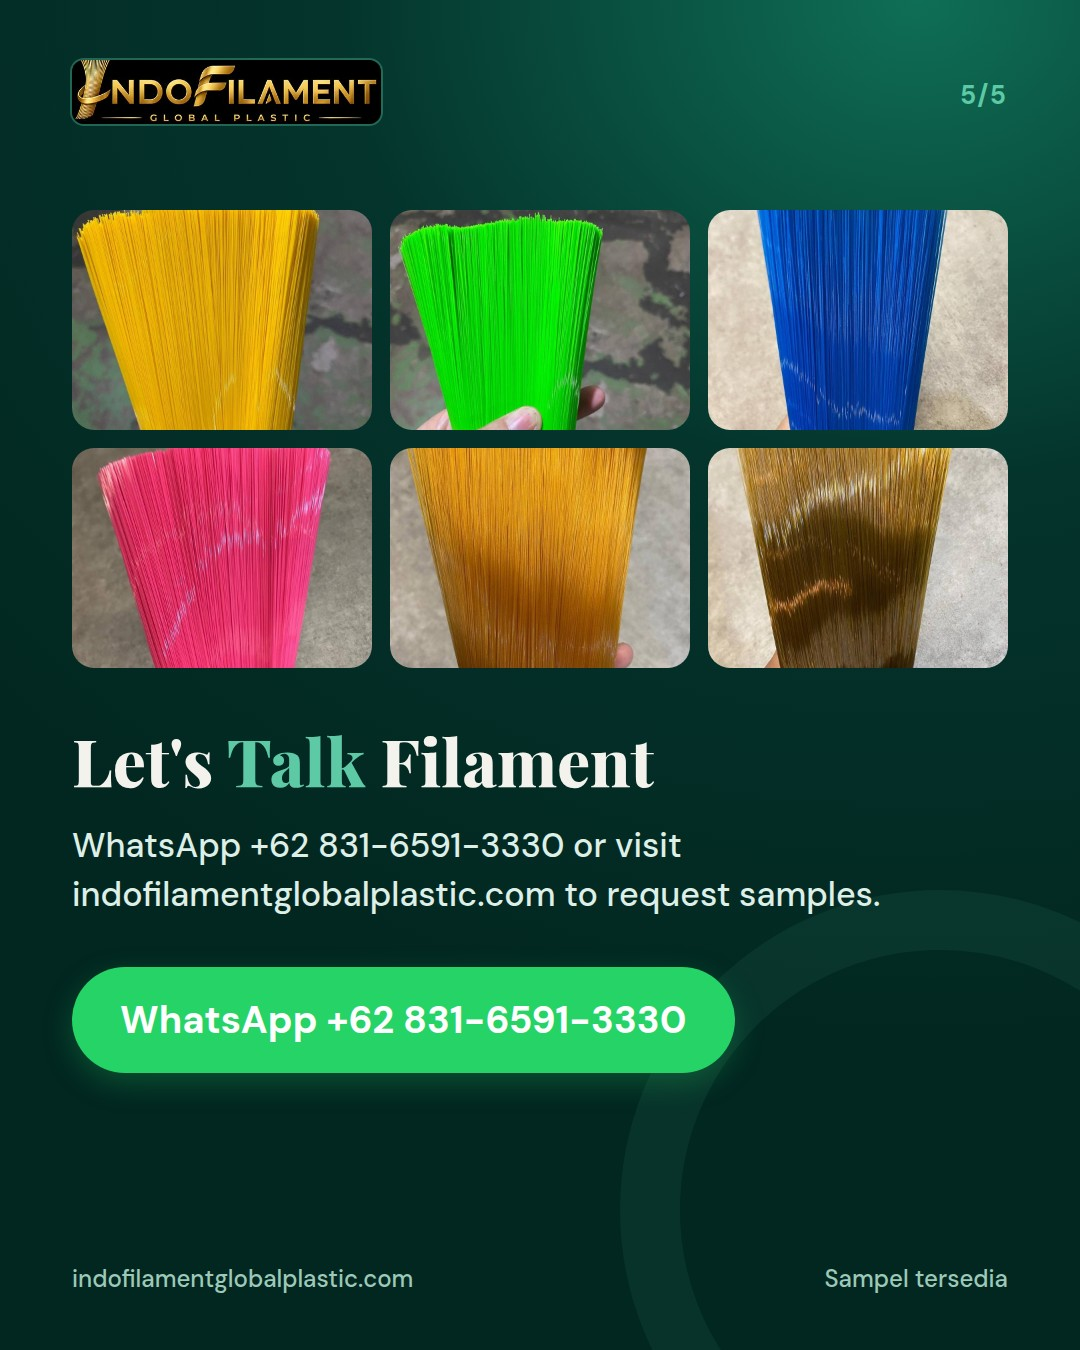
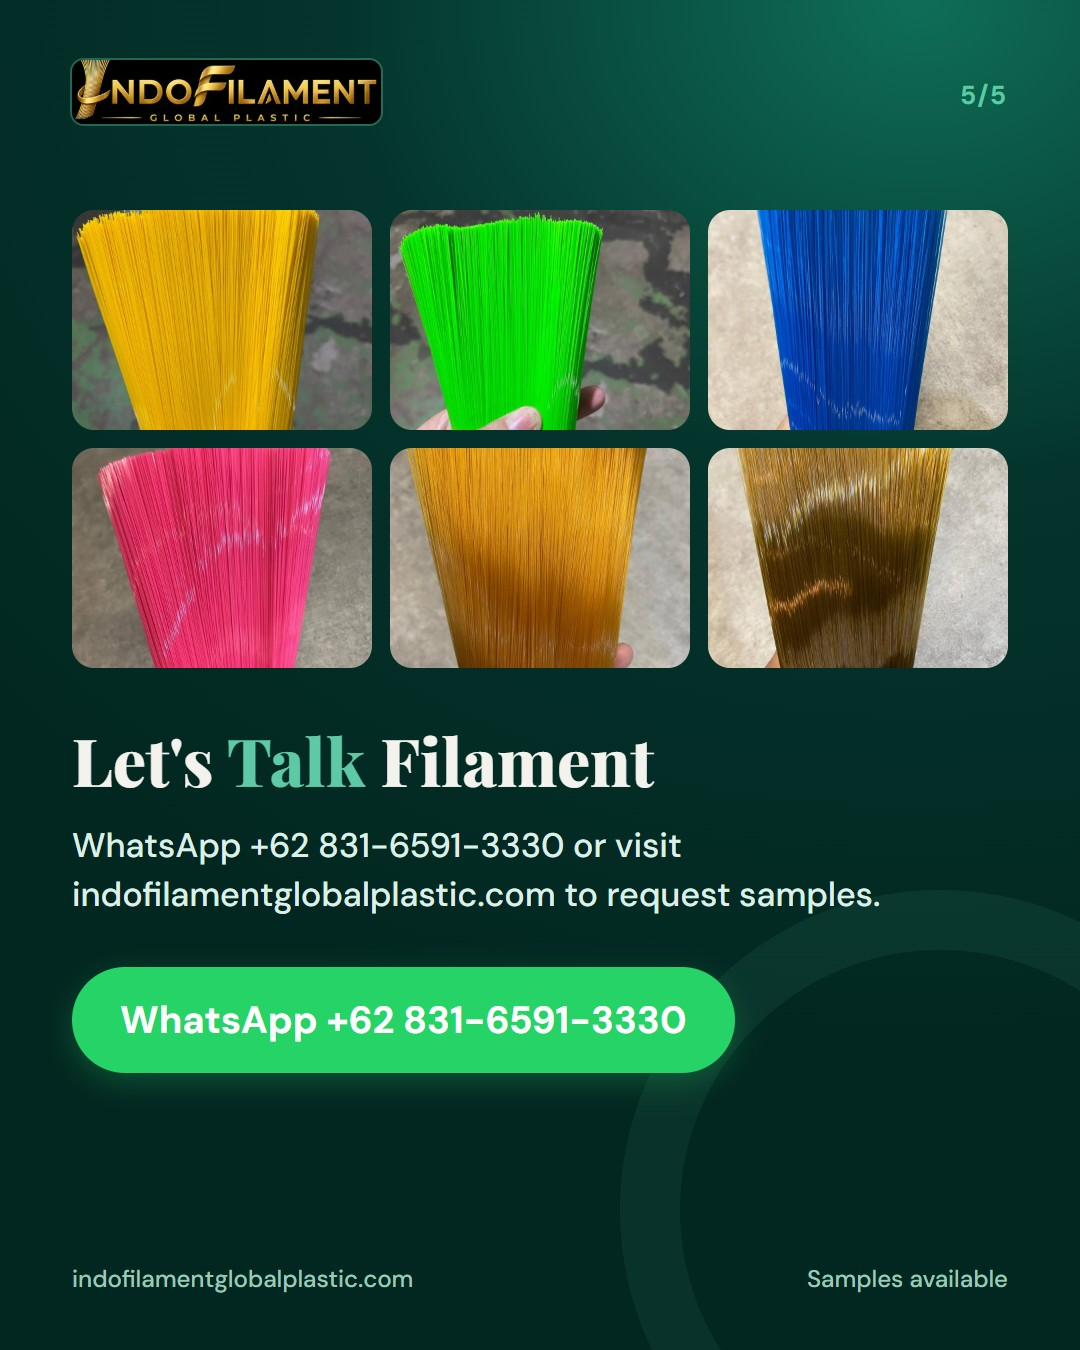
IG: deteksi English diperbaiki (footer Swipe), sampul foto tim dengan teks di atas; render ulang 3 draft intro English

diff --git a/.github/ig/render.js b/.github/ig/render.js
@@ -45,8 +45,8 @@ h2{font:800 66px/1.1 'Playfair Display',serif}
 `;
 
 const tpl = {
-  cover: s => `<div class="bg" style="background-image:url('${foto(s.bg)}')"></div><div class="shade"></div>
-    <div style="position:absolute;left:72px;right:72px;bottom:170px">
+  cover: s => `<div class="bg" style="background-image:url('${foto(s.bg)}')"></div><div class="shade"${s.bg === 'team' ? ' style="background:linear-gradient(180deg,#022620 0%,rgba(2,38,32,.94) 42%,rgba(2,38,32,.45) 54%,rgba(2,38,32,0) 66%,rgba(2,38,32,0) 82%,rgba(2,38,32,.75) 100%)"' : ''}></div>
+    <div style="position:absolute;left:72px;right:72px;${s.bg === 'team' ? 'top:190px' : 'bottom:170px'}">
       <div class="kicker">${esc(s.kicker)}</div><div style="height:28px"></div>
       <h1>${gold(s.title)}</h1>
       <div style="height:36px"></div><div class="line"></div><div style="height:36px"></div>
@@ -100,7 +100,7 @@ ${Array.from({ length: n }, (_, i) => `<img src="${i + 1}.jpg" alt="Slide ${i + 
     for (const d of dirs) {
       const p = JSON.parse(fs.readFileSync(path.join(d, 'post.json'), 'utf8'));
       const slides = (p.slides || []).slice(0, 10);
-      EN = p.lang === 'en' || /ENGLISH/i.test(p.topic || '');
+      EN = p.lang === 'en' || String(p.topic || '').toUpperCase().includes('ENGLISH');
       if (!slides.length) throw new Error(d + ': slides kosong');
       for (let i = 0; i < slides.length; i++) {
         const tab = await browser.newPage();
